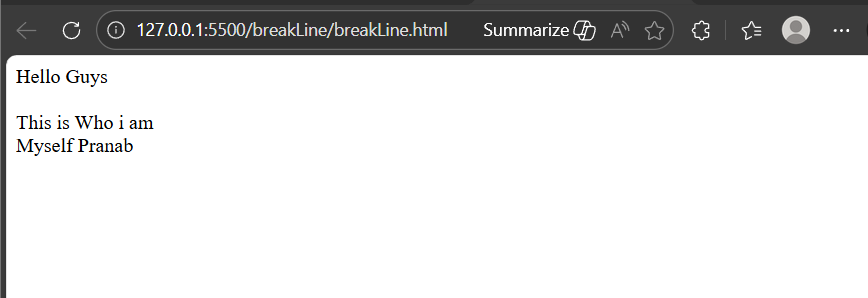
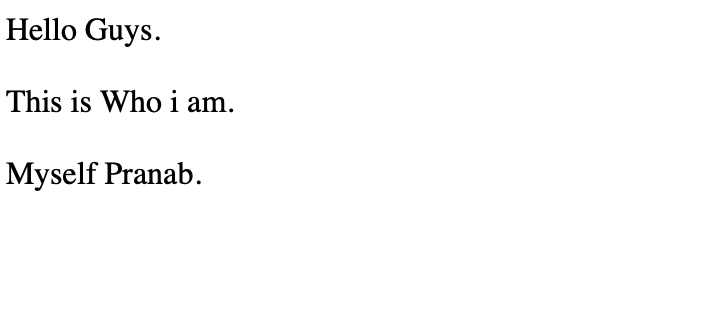
breakLine.html

Changed region(s): [[0.0, 0.0, 1.0, 1.0]]

diff --git a/breakLine/breakLine.html b/breakLine/breakLine.html
@@ -6,14 +6,14 @@
         
       Hello Guys.
         
-    </head> <br> <!-- Here we are using <br> at side of the tag  or it can be also denote as outside of tag. -->
+    </head> <br>              <!-- Here we are using <br> at side of the tag  or it can be also denote as outside of tag. -->
 
-    <br> <!-- Here we are using <br> at outside of tag. -->
+    <br>                      <!-- Here we are using <br> at outside of tag. -->
     
     <body>
         
-      This is Who i am <br>  <!-- Here we are using <br> inside of tag. -->
-      Myself Pranab.
+      This is Who i am. <br>  <!-- Here we are using <br> inside of tag. -->
+      <br> Myself Pranab.
         
     </body> 
     
